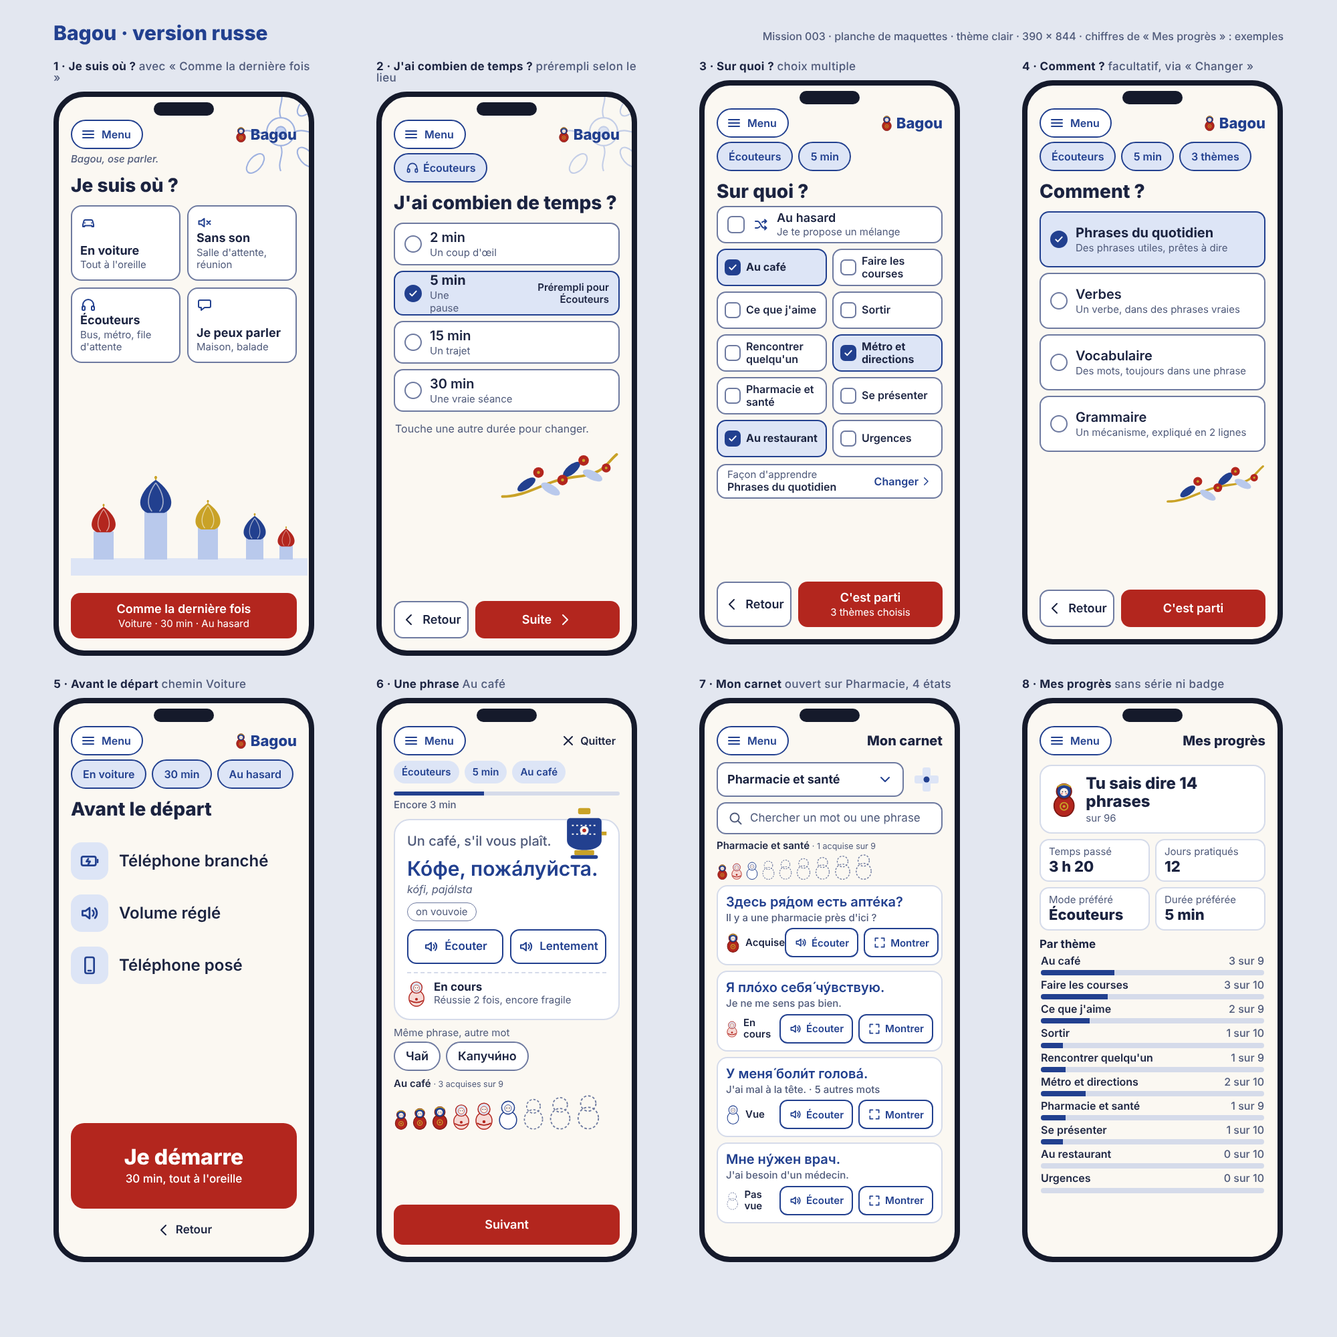
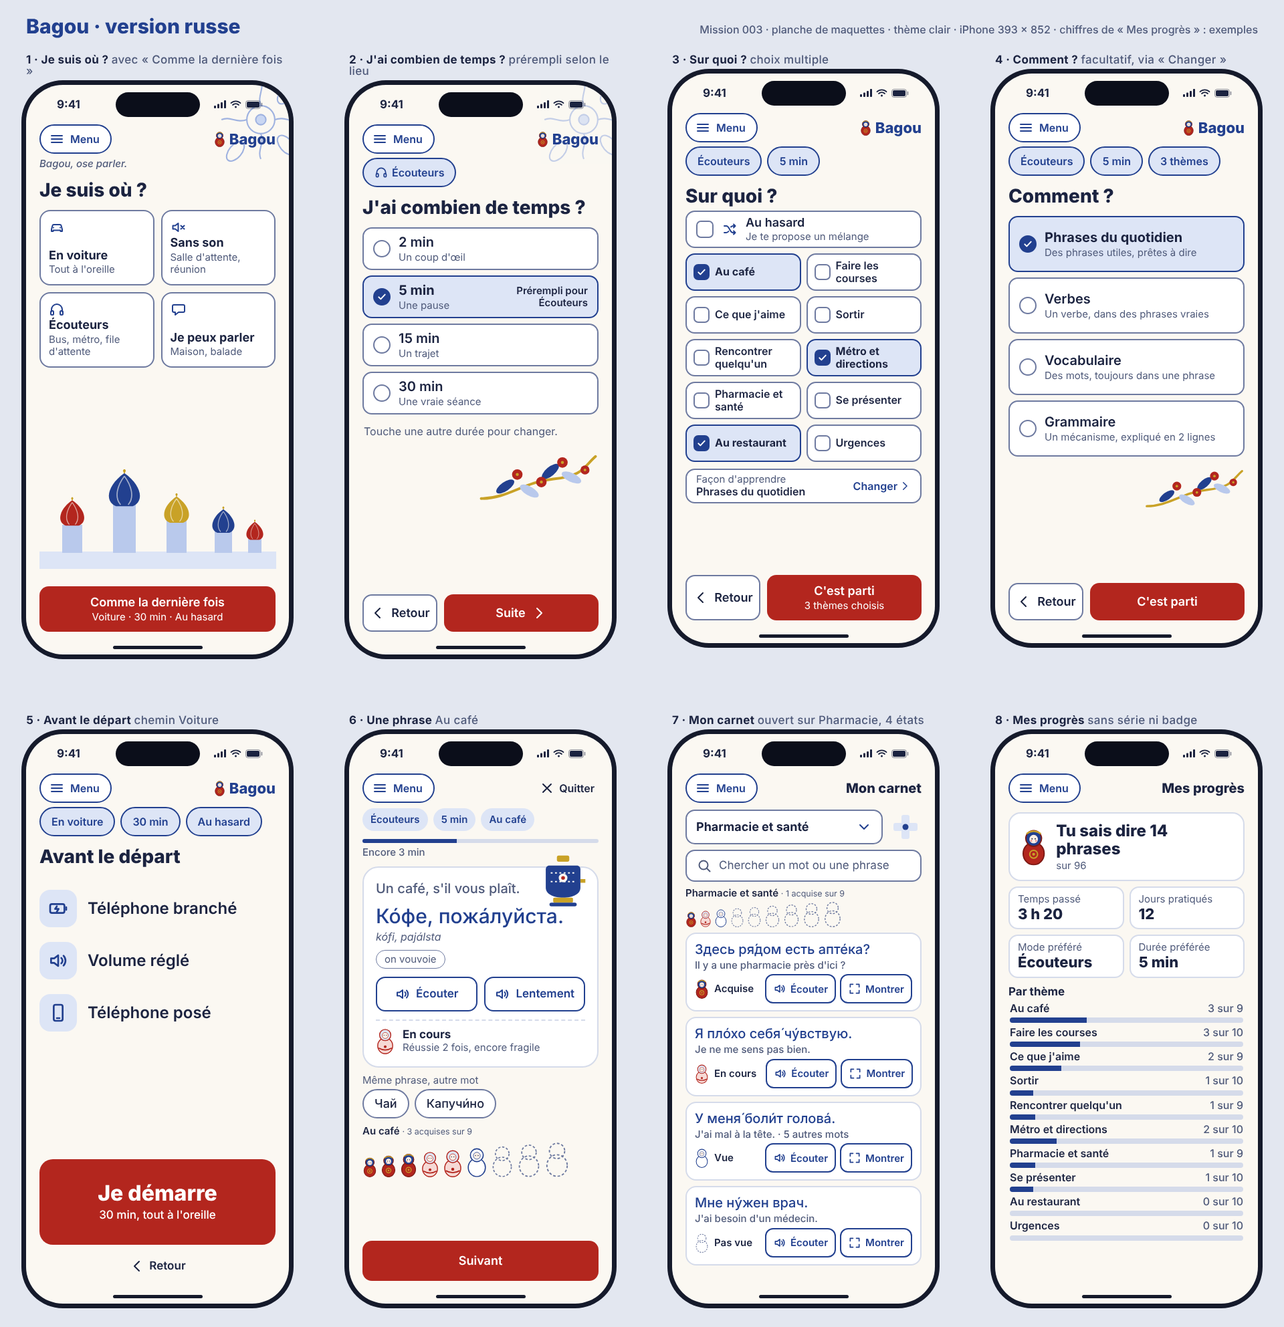
Mission 003 : planche Bagou au format iPhone, contenu recentré (Lou)
Claude-Session: https://claude.ai/code/session_01YBmfKYwRcWfj9TB5KigYe5

Changed region(s): [[0.0, 0.0, 1.0, 0.9995]]

diff --git a/docs/design/maquettes/bagou-ru.html b/docs/design/maquettes/bagou-ru.html
@@ -5,16 +5,22 @@
 :root{--bg:#FBF8F2;--surface:#FFFFFF;--text:#1B2340;--text-muted:#4F5A7A;--border:#6E7AA0;--border-subtle:#D5DBEA;--accent:#22408F;--on-accent:#FFFFFF;--accent-soft:#DDE5F6;--laque:#B3261E;--on-laque:#FFFFFF;--laque-soft:#F6D9D5;--or:#C9A227;--or-text:#7A5C00;--page:#E3E7F0;--font:system-ui,-apple-system,"Segoe UI",Roboto,"Noto Sans","Helvetica Neue",Arial,sans-serif}
 *{box-sizing:border-box;margin:0;padding:0}
 html,body{width:2000px;background:var(--page);font-family:var(--font);color:var(--text)}
-.entete{padding:34px 80px 6px;display:flex;justify-content:space-between;align-items:baseline}
+.entete{width:1842px;margin:0 auto;padding:34px 0 6px;display:flex;justify-content:space-between;align-items:baseline}
 .entete h1{font:800 30px/1 var(--font);color:var(--accent)}
 .entete p{font:500 16px/1.3 var(--font);color:var(--text-muted)}
-.planche{display:grid;grid-template-columns:repeat(4,390px);column-gap:93px;row-gap:34px;padding:20px 80px 50px}
+.planche{display:grid;grid-template-columns:repeat(4,393px);justify-content:center;column-gap:90px;row-gap:90px;padding:20px 0 70px}
 .cell{display:flex;flex-direction:column;gap:12px}
 .leg{font:700 17px/1 var(--font);color:var(--text);letter-spacing:.02em}
 .leg span{color:var(--text-muted);font-weight:500}
-.tel{position:relative;width:390px;height:844px;border:8px solid #151A2B;border-radius:46px;background:var(--bg);overflow:hidden;display:flex;flex-direction:column;padding:34px 18px 18px}
-.tel::before{content:"";position:absolute;top:8px;left:50%;margin-left:-45px;width:90px;height:20px;border-radius:12px;background:#151A2B;z-index:5}
+/* iPhone 15/16 : 393 x 852, zones de sécurité 59 px en haut et 34 px en bas, marges latérales 20 px */
+.tel{position:relative;width:393px;height:852px;border-radius:55px;box-shadow:0 0 0 7px #151A2B;background:var(--bg);overflow:hidden;display:flex;flex-direction:column;padding:59px 20px 34px}
+.tel::before{content:"";position:absolute;top:11px;left:50%;margin-left:-63px;width:126px;height:37px;border-radius:19px;background:#0B0E1A;z-index:7}
+.tel::after{content:"";position:absolute;bottom:8px;left:50%;margin-left:-67px;width:134px;height:5px;border-radius:3px;background:#151A2B;z-index:7}
 .tel>*{position:relative;z-index:1}
+.tel>.statut{position:absolute;top:0;left:0;right:0;height:59px;z-index:6;display:flex;justify-content:space-between;align-items:center;padding:0 38px 0 46px;color:var(--text)}
+.statut b{font:700 17px/1 var(--font)}
+.statut span{display:flex;align-items:center;gap:6px}
+.mt{display:inline-block;white-space:nowrap}
 .i{width:24px;height:24px;stroke:currentColor;fill:none;stroke-width:2;stroke-linecap:round;stroke-linejoin:round;flex:none}
 .motif{position:absolute!important;top:-24px;right:-34px;width:190px;z-index:0!important}
 /* en-tête */
@@ -43,17 +49,17 @@ h2{font:800 28px/1.15 var(--font);margin:14px 0 14px;position:relative}
 .lieu{background:var(--surface);border:2px solid var(--border);border-radius:16px;min-height:112px;padding:12px;display:flex;flex-direction:column;justify-content:space-between;color:var(--accent)}
 .lieu b{display:block;font:700 18px/1.2 var(--font);color:var(--text)}
 .lieu span{display:block;font:400 15px/1.25 var(--font);color:var(--text-muted);margin-top:2px}
-.band{position:absolute!important;left:18px;right:18px;bottom:112px;z-index:0!important}
+.band{position:absolute!important;left:20px;right:20px;bottom:128px;z-index:0!important}
 /* lignes de choix */
 .choix{display:flex;align-items:center;gap:12px;min-height:64px;background:var(--surface);border:2px solid var(--border);border-radius:14px;padding:0 14px;font:600 20px/1.2 var(--font);margin-bottom:8px}
-.choix small{display:block;font:400 15px/1.25 var(--font);color:var(--text-muted);margin-top:2px}
+.choix small{display:block;font:400 15px/1.25 var(--font);color:var(--text-muted);margin-top:2px;white-space:nowrap}
 .choix.sel{background:var(--accent-soft);border-color:var(--accent);font-weight:700}
 .choix.sel small{color:var(--text-muted)}
 .rond{width:26px;height:26px;border-radius:50%;border:2px solid var(--border);flex:none;display:flex;align-items:center;justify-content:center;color:#fff}
 .case{border-radius:7px}
 .sel .rond{background:var(--accent);border-color:var(--accent)}
 .rond .i{width:16px;height:16px;stroke-width:3}
-.tag{margin-left:auto;font:600 15px/1.2 var(--font);color:var(--text);text-align:right}
+.tag{margin-left:auto;flex:none;max-width:112px;font:600 15px/1.2 var(--font);color:var(--text);text-align:right}
 .note{font:400 16px/1.4 var(--font);color:var(--text-muted);margin:6px 2px 0}
 /* thèmes */
 .themes{display:grid;grid-template-columns:1fr 1fr;gap:8px;margin-top:8px}
@@ -77,7 +83,8 @@ h2{font:800 28px/1.15 var(--font);margin:14px 0 14px;position:relative}
 .carte{margin-top:14px;background:var(--surface);border:2px solid var(--border-subtle);border-radius:24px;padding:18px;position:relative;flex:none}
 .carte .samovar{position:absolute;right:14px;top:-20px;width:74px}
 .fr{font:500 20px/1.3 var(--font);color:var(--text-muted);padding-right:76px}
-.ru{font:600 30px/1.35 var(--font);color:var(--accent);margin-top:8px;overflow-wrap:break-word;hyphens:none}
+.ru{font:500 30px/1.35 var(--font);color:var(--accent);margin-top:8px;overflow-wrap:break-word;hyphens:none;font-synthesis:none;font-kerning:normal}
+.puce[lang=ru]{font-weight:500}
 .tr{font:italic 400 16px/1.4 var(--font);color:var(--text-muted)}
 .reg{display:inline-flex;align-items:center;margin-top:8px;min-height:28px;padding:0 12px;border:1.5px solid var(--border);border-radius:999px;font:400 15px/1 var(--font);color:var(--text-muted)}
 .ecoute{display:flex;gap:10px;margin-top:12px}
@@ -98,10 +105,10 @@ h2{font:800 28px/1.15 var(--font);margin:14px 0 14px;position:relative}
 .ligne{background:var(--surface);border:2px solid var(--border-subtle);border-radius:16px;padding:10px 12px;margin-top:8px}
 .ligne .ru{font-size:20px;line-height:1.35;margin-top:0}
 .ligne .fr{font-size:15px;padding-right:0;line-height:1.3}
-.ligne .bl{display:flex;align-items:center;justify-content:space-between;margin-top:6px}
-.st{display:flex;align-items:center;gap:8px;font:600 15px/1.1 var(--font)}
-.bt{display:flex;gap:8px}
-.bt span{display:inline-flex;align-items:center;gap:6px;min-height:44px;padding:0 12px;border:2px solid var(--accent);border-radius:12px;color:var(--accent);font:600 15px/1 var(--font);background:var(--surface)}
+.ligne .bl{display:flex;align-items:center;justify-content:space-between;gap:14px;margin-top:4px}
+.st{display:flex;align-items:center;gap:8px;flex:none;font:600 15px/1.1 var(--font)}
+.bt{display:flex;gap:6px;flex:none}
+.bt span{display:inline-flex;align-items:center;gap:6px;min-height:44px;padding:0 10px;border:2px solid var(--accent);border-radius:12px;color:var(--accent);font:600 15px/1 var(--font);background:var(--surface)}
 .bt .i{width:20px;height:20px}
 /* progrès */
 .cle{display:flex;align-items:center;gap:14px;background:var(--surface);border:2px solid var(--border-subtle);border-radius:18px;padding:12px 16px;margin-top:14px}
@@ -137,6 +144,10 @@ h2{font:800 28px/1.15 var(--font);margin:14px 0 14px;position:relative}
 <symbol id="i-croix" viewBox="0 0 24 24"><path d="M6 6l12 12M18 6L6 18"/></symbol>
 <symbol id="i-batterie" viewBox="0 0 24 24"><rect x="3" y="7" width="16" height="10" rx="2"/><path d="M21 10.5v3M10.5 9.5l-2 3h4l-2 3"/></symbol>
 <symbol id="i-tel" viewBox="0 0 24 24"><rect x="7" y="3" width="10" height="18" rx="2"/><path d="M10.5 18h3"/></symbol>
+<!-- barre d'état -->
+<symbol id="s-reseau" viewBox="0 0 18 12"><g fill="currentColor"><rect x="0" y="8" width="3" height="4" rx="1"/><rect x="5" y="5.5" width="3" height="6.5" rx="1"/><rect x="10" y="3" width="3" height="9" rx="1"/><rect x="15" y="0" width="3" height="12" rx="1"/></g></symbol>
+<symbol id="s-wifi" viewBox="0 0 17 12"><path d="M1.5 4.2a10 10 0 0 1 14 0M4 7a6.5 6.5 0 0 1 9 0" fill="none" stroke="currentColor" stroke-width="1.8" stroke-linecap="round"/><circle cx="8.5" cy="10" r="1.5" fill="currentColor"/></symbol>
+<symbol id="s-batt" viewBox="0 0 27 13"><rect x=".5" y=".5" width="22" height="12" rx="3.5" fill="none" stroke="currentColor" opacity=".5"/><rect x="2" y="2" width="19" height="9" rx="2" fill="currentColor"/><path d="M24.5 4.5v4" stroke="currentColor" stroke-width="1.5" stroke-linecap="round" opacity=".5"/></symbol>
 
 <!-- matriochka : 4 états -->
 <symbol id="d-pas" viewBox="0 0 40 57"><ellipse cx="20" cy="39" rx="16" ry="17" fill="none" stroke="#6E7AA0" stroke-width="2" stroke-dasharray="4 3"/><circle cx="20" cy="16" r="12" fill="none" stroke="#6E7AA0" stroke-width="2" stroke-dasharray="4 3"/></symbol>
@@ -160,13 +171,13 @@ h2{font:800 28px/1.15 var(--font);margin:14px 0 14px;position:relative}
 <symbol id="gjel" viewBox="0 0 200 200"><g fill="none" stroke="#9FB2E0" stroke-width="2.2"><circle cx="120" cy="80" r="22"/><circle cx="120" cy="80" r="8" fill="#C9D6F2"/><path d="M120 58c-6-16 6-26 0-40M142 80c16-6 26 6 40 0M120 102c6 16-6 26 0 40M98 80c-16 6-26-6-40 0"/><ellipse cx="160" cy="40" rx="10" ry="18" transform="rotate(40 160 40)"/><ellipse cx="80" cy="130" rx="10" ry="18" transform="rotate(40 80 130)"/><ellipse cx="160" cy="120" rx="10" ry="18" transform="rotate(-40 160 120)"/></g></symbol>
 </defs></svg>
 
-<div class="entete"><h1>Bagou · version russe</h1><p>Mission 003 · planche de maquettes · thème clair · 390 × 844 · chiffres de « Mes progrès » : exemples</p></div>
+<div class="entete"><h1>Bagou · version russe</h1><p>Mission 003 · planche de maquettes · thème clair · iPhone 393 × 852 · chiffres de « Mes progrès » : exemples</p></div>
 
 <div class="planche">
 
 <!-- 1 -->
 <div class="cell"><div class="leg">1 · Je suis où ? <span>avec « Comme la dernière fois »</span></div>
-<div class="tel">
+<div class="tel"><div class="statut" aria-hidden="true"><b>9:41</b><span><svg width="18" height="12"><use href="#s-reseau"/></svg><svg width="17" height="12"><use href="#s-wifi"/></svg><svg width="27" height="13"><use href="#s-batt"/></svg></span></div>
  <svg class="motif" viewBox="0 0 200 200"><use href="#gjel"/></svg>
  <div class="haut"><div class="menu"><svg class="i"><use href="#i-menu"/></svg>Menu</div><div class="marque"><svg width="17" height="24" viewBox="0 0 40 57"><use href="#d-acq"/></svg>Bagou</div></div>
  <div class="slogan">Bagou, ose parler.</div>
@@ -190,7 +201,7 @@ h2{font:800 28px/1.15 var(--font);margin:14px 0 14px;position:relative}
 
 <!-- 2 -->
 <div class="cell"><div class="leg">2 · J'ai combien de temps ? <span>prérempli selon le lieu</span></div>
-<div class="tel">
+<div class="tel"><div class="statut" aria-hidden="true"><b>9:41</b><span><svg width="18" height="12"><use href="#s-reseau"/></svg><svg width="17" height="12"><use href="#s-wifi"/></svg><svg width="27" height="13"><use href="#s-batt"/></svg></span></div>
  <svg class="motif" viewBox="0 0 200 200" style="opacity:.6"><use href="#gjel"/></svg>
  <div class="haut"><div class="menu"><svg class="i"><use href="#i-menu"/></svg>Menu</div><div class="marque"><svg width="17" height="24" viewBox="0 0 40 57"><use href="#d-acq"/></svg>Bagou</div></div>
  <div class="pastilles"><span class="past"><svg class="i" style="width:20px;height:20px;margin-right:6px"><use href="#i-casque"/></svg>Écouteurs</span></div>
@@ -206,7 +217,7 @@ h2{font:800 28px/1.15 var(--font);margin:14px 0 14px;position:relative}
 
 <!-- 3 -->
 <div class="cell"><div class="leg">3 · Sur quoi ? <span>choix multiple</span></div>
-<div class="tel">
+<div class="tel"><div class="statut" aria-hidden="true"><b>9:41</b><span><svg width="18" height="12"><use href="#s-reseau"/></svg><svg width="17" height="12"><use href="#s-wifi"/></svg><svg width="27" height="13"><use href="#s-batt"/></svg></span></div>
  <div class="haut"><div class="menu"><svg class="i"><use href="#i-menu"/></svg>Menu</div><div class="marque"><svg width="17" height="24" viewBox="0 0 40 57"><use href="#d-acq"/></svg>Bagou</div></div>
  <div class="pastilles"><span class="past">Écouteurs</span><span class="past">5 min</span></div>
  <h2 style="margin-bottom:6px">Sur quoi ?</h2>
@@ -229,7 +240,7 @@ h2{font:800 28px/1.15 var(--font);margin:14px 0 14px;position:relative}
 
 <!-- 4 -->
 <div class="cell"><div class="leg">4 · Comment ? <span>facultatif, via « Changer »</span></div>
-<div class="tel">
+<div class="tel"><div class="statut" aria-hidden="true"><b>9:41</b><span><svg width="18" height="12"><use href="#s-reseau"/></svg><svg width="17" height="12"><use href="#s-wifi"/></svg><svg width="27" height="13"><use href="#s-batt"/></svg></span></div>
  <div class="haut"><div class="menu"><svg class="i"><use href="#i-menu"/></svg>Menu</div><div class="marque"><svg width="17" height="24" viewBox="0 0 40 57"><use href="#d-acq"/></svg>Bagou</div></div>
  <div class="pastilles"><span class="past">Écouteurs</span><span class="past">5 min</span><span class="past">3 thèmes</span></div>
  <h2>Comment ?</h2>
@@ -243,7 +254,7 @@ h2{font:800 28px/1.15 var(--font);margin:14px 0 14px;position:relative}
 
 <!-- 5 -->
 <div class="cell"><div class="leg">5 · Avant le départ <span>chemin Voiture</span></div>
-<div class="tel">
+<div class="tel"><div class="statut" aria-hidden="true"><b>9:41</b><span><svg width="18" height="12"><use href="#s-reseau"/></svg><svg width="17" height="12"><use href="#s-wifi"/></svg><svg width="27" height="13"><use href="#s-batt"/></svg></span></div>
  <div class="haut"><div class="menu"><svg class="i"><use href="#i-menu"/></svg>Menu</div><div class="marque"><svg width="17" height="24" viewBox="0 0 40 57"><use href="#d-acq"/></svg>Bagou</div></div>
  <div class="pastilles"><span class="past">En voiture</span><span class="past">30 min</span><span class="past">Au hasard</span></div>
  <h2 style="margin-bottom:34px">Avant le départ</h2>
@@ -258,7 +269,7 @@ h2{font:800 28px/1.15 var(--font);margin:14px 0 14px;position:relative}
 
 <!-- 6 -->
 <div class="cell"><div class="leg">6 · Une phrase <span>Au café</span></div>
-<div class="tel">
+<div class="tel"><div class="statut" aria-hidden="true"><b>9:41</b><span><svg width="18" height="12"><use href="#s-reseau"/></svg><svg width="17" height="12"><use href="#s-wifi"/></svg><svg width="27" height="13"><use href="#s-batt"/></svg></span></div>
  <div class="haut"><div class="menu"><svg class="i"><use href="#i-menu"/></svg>Menu</div><div class="quit"><svg class="i"><use href="#i-croix"/></svg>Quitter</div></div>
  <div class="pastilles" style="margin-top:8px"><span class="info">Écouteurs</span><span class="info">5 min</span><span class="info">Au café</span></div>
  <div class="temps"><i></i></div><div class="encore">Encore 3 min</div>
@@ -282,7 +293,7 @@ h2{font:800 28px/1.15 var(--font);margin:14px 0 14px;position:relative}
 
 <!-- 7 -->
 <div class="cell"><div class="leg">7 · Mon carnet <span>ouvert sur Pharmacie, 4 états</span></div>
-<div class="tel">
+<div class="tel"><div class="statut" aria-hidden="true"><b>9:41</b><span><svg width="18" height="12"><use href="#s-reseau"/></svg><svg width="17" height="12"><use href="#s-wifi"/></svg><svg width="27" height="13"><use href="#s-batt"/></svg></span></div>
  <div class="haut"><div class="menu"><svg class="i"><use href="#i-menu"/></svg>Menu</div><div class="titre-page">Mon carnet</div></div>
  <div class="selrow" style="margin-top:10px"><div class="select">Pharmacie et santé<svg class="i"><use href="#i-bas"/></svg></div><svg viewBox="0 0 48 48" width="48" height="48" aria-hidden="true"><use href="#croix"/></svg></div>
  <div class="recherche"><svg class="i"><use href="#i-loupe"/></svg>Chercher un mot ou une phrase</div>
@@ -292,9 +303,9 @@ h2{font:800 28px/1.15 var(--font);margin:14px 0 14px;position:relative}
  </div>
  <div class="ligne"><div class="ru" lang="ru">Здесь ря́дом есть апте́ка?</div><div class="fr">Il y a une pharmacie près d'ici ?</div>
   <div class="bl"><div class="st"><svg width="21" height="30" viewBox="0 0 40 57"><use href="#d-acq"/></svg>Acquise</div><div class="bt"><span><svg class="i"><use href="#i-son"/></svg>Écouter</span><span><svg class="i"><use href="#i-montrer"/></svg>Montrer</span></div></div></div>
- <div class="ligne"><div class="ru" lang="ru">Я пло́хо себя́ чу́вствую.</div><div class="fr">Je ne me sens pas bien.</div>
+ <div class="ligne"><div class="ru" lang="ru"><span class="mt">Я</span> <span class="mt">пло́хо</span> <span class="mt">себя́</span> <span class="mt">чу́вствую.</span></div><div class="fr">Je ne me sens pas bien.</div>
   <div class="bl"><div class="st"><svg width="21" height="30" viewBox="0 0 40 57"><use href="#d-cours"/></svg>En cours</div><div class="bt"><span><svg class="i"><use href="#i-son"/></svg>Écouter</span><span><svg class="i"><use href="#i-montrer"/></svg>Montrer</span></div></div></div>
- <div class="ligne"><div class="ru" lang="ru">У меня́ боли́т голова́.</div><div class="fr">J'ai mal à la tête. · 5 autres mots</div>
+ <div class="ligne"><div class="ru" lang="ru"><span class="mt">У</span> <span class="mt">меня́</span> <span class="mt">боли́т</span> <span class="mt">голова́.</span></div><div class="fr">J'ai mal à la tête. · 5 autres mots</div>
   <div class="bl"><div class="st"><svg width="21" height="30" viewBox="0 0 40 57"><use href="#d-vue"/></svg>Vue</div><div class="bt"><span><svg class="i"><use href="#i-son"/></svg>Écouter</span><span><svg class="i"><use href="#i-montrer"/></svg>Montrer</span></div></div></div>
  <div class="ligne"><div class="ru" lang="ru">Мне ну́жен врач.</div><div class="fr">J'ai besoin d'un médecin.</div>
   <div class="bl"><div class="st"><svg width="21" height="30" viewBox="0 0 40 57"><use href="#d-pas"/></svg>Pas vue</div><div class="bt"><span><svg class="i"><use href="#i-son"/></svg>Écouter</span><span><svg class="i"><use href="#i-montrer"/></svg>Montrer</span></div></div></div>
@@ -302,7 +313,7 @@ h2{font:800 28px/1.15 var(--font);margin:14px 0 14px;position:relative}
 
 <!-- 8 -->
 <div class="cell"><div class="leg">8 · Mes progrès <span>sans série ni badge</span></div>
-<div class="tel">
+<div class="tel"><div class="statut" aria-hidden="true"><b>9:41</b><span><svg width="18" height="12"><use href="#s-reseau"/></svg><svg width="17" height="12"><use href="#s-wifi"/></svg><svg width="27" height="13"><use href="#s-batt"/></svg></span></div>
  <div class="haut"><div class="menu"><svg class="i"><use href="#i-menu"/></svg>Menu</div><div class="titre-page">Mes progrès</div></div>
  <div class="cle"><svg width="40" height="57" viewBox="0 0 40 57" role="img" aria-label="Acquise"><use href="#d-acq"/></svg><div><b>Tu sais dire 14 phrases</b><small>sur 96</small></div></div>
  <div class="chiffres">

diff --git a/docs/design/bagou-ru.md b/docs/design/bagou-ru.md
@@ -78,7 +78,7 @@ Inchangée (pile système, échelle de phase 0, règles du cyrillique et de l'ac
 
 | Élément | Règle |
 |---|---|
-| Phrase russe | `--accent` (cobalt), 600, tailles `--fs-ru-hero*`. **L'accent tonique n'est pas coloré** (le croquis le colorait en rouge : abandonné, un diacritique combinant coloré casse le rendu). |
+| Phrase russe | `--accent` (cobalt), **500** (retouche iPhone : jamais plus de 500 sur du cyrillique accentué, le diacritique se décolle en gras), tailles `--fs-ru-hero*`. **L'accent tonique n'est pas coloré** (le croquis le colorait en rouge : abandonné, un diacritique combinant coloré casse le rendu). |
 | Questions d'accueil (« Je suis où ? ») | 28 px, 800, `--text`. Un seul niveau de titre par écran. |
 | Mot-symbole « Bagou » | 22 px, 800, `--accent`, police système, précédé d'une mini matriochka acquise de 24 px. Slogan « Bagou, ose parler » en 15 px, `--text-muted`, sous l'en-tête de l'accueil seulement. |
 
@@ -281,3 +281,22 @@ Règles de lecture :
 - Mouvement : emboîtement des poupées, ouverture du menu et arrivée des écrans suivent le tableau §5 de `systeme-visuel.md` ; avec « réduire les animations » : apparition directe, aucune transformation.
 - Silence : « Avant le départ », le carnet et la planche de progrès ne jouent aucun son à l'ouverture ; seul un toucher volontaire sur « Écouter » en joue un, et jamais après « Couper le son ».
 - Texte : plancher 15 px, tailles en `rem`, russe en `lang="ru"`.
+
+---
+
+## 12. Format iPhone, zones de sécurité et marges (retouche du 12/11)
+
+Référence de la planche : iPhone 15/16, **393 × 852 px**, coins de 55 px, Dynamic Island (pilule noire 126 × 37 px, à 11 px du haut, centrée).
+
+| Zone | Valeur | Règle |
+|---|---|---|
+| Haut | 59 px | Barre d'état (heure à gauche, réseau, Wi-Fi et batterie à droite) et Dynamic Island. **Aucun contenu, aucun bouton.** Seul un décor sans information peut passer dessous. |
+| Bas | 34 px | Barre d'accueil (trait de 134 × 5 px). **Aucun contenu, aucun bouton.** En CSS : `padding-bottom: max(34px, env(safe-area-inset-bottom))`, `padding-top: max(59px, env(safe-area-inset-top))`. |
+| Côtés | 20 px, égaux | Largeur utile 353 px. Titres, grilles, cartes et boutons s'alignent sur ces marges ; rien ne touche le bord (seuls les décors peuvent déborder, en `aria-hidden`). |
+
+- Les gros boutons du bas occupent toute la largeur utile (353 px) et se posent juste au-dessus de la zone des 34 px.
+- Hauteur utile : 852 − 59 − 34 = 759 px. Chaque écran de la planche y tient sans défilement, sauf le carnet et les progrès, qui défilent si la liste est plus longue.
+- Accent tonique : un mot russe = un bloc insécable (`display:inline-block; white-space:nowrap`), poids 500, `font-synthesis:none`, pour que l'accent ne se détache ni ne chevauche l'espace voisin.
+- Lignes du carnet : « Écouter » et « Montrer » ne rétrécissent jamais et gardent au moins 14 px d'écart avec le mot d'état.
+- Écran 2 : la mention « Prérempli pour Écouteurs » est limitée à 112 px de large (deux lignes), et « Une pause » ne se coupe jamais.
+- Planche : 2 rangées de 4, centrée, écart de 90 px entre les écrans, en largeur comme en hauteur.

diff --git a/docs/missions/003-design-bagou/relais-lou.md b/docs/missions/003-design-bagou/relais-lou.md
@@ -4,6 +4,9 @@
 - `docs/design/bagou-ru.md` : palette Gjel et Khokhloma (clair et sombre, contrastes AA calculés), matriochka, parcours, menu, carnet, progrès, décors, format `ambiance.json`.
 - `docs/design/maquettes/bagou-ru.html` : planche de 8 écrans, thème clair, sans script.
 
+## Retouche iPhone du 12/11
+Écrans en 393 × 852 (Dynamic Island, barre d'état, zones de sécurité 59 px en haut et 34 px en bas, marges de 20 px), contenus recentrés, accent tonique (poids 500, mots insécables), « Une pause » et « Acquise » corrigés, planche centrée 2 × 4. Détail : `bagou-ru.md` §12. Pour Kostia : utiliser `env(safe-area-inset-*)` avec ces planchers.
+
 ## Décisions prises
 - Bouton principal en laque rouge, sélections en cobalt : le rouge reste rare (10 %).
 - Or clair (2,3:1) réservé au décor ; texte or = `#7A5C00`.
